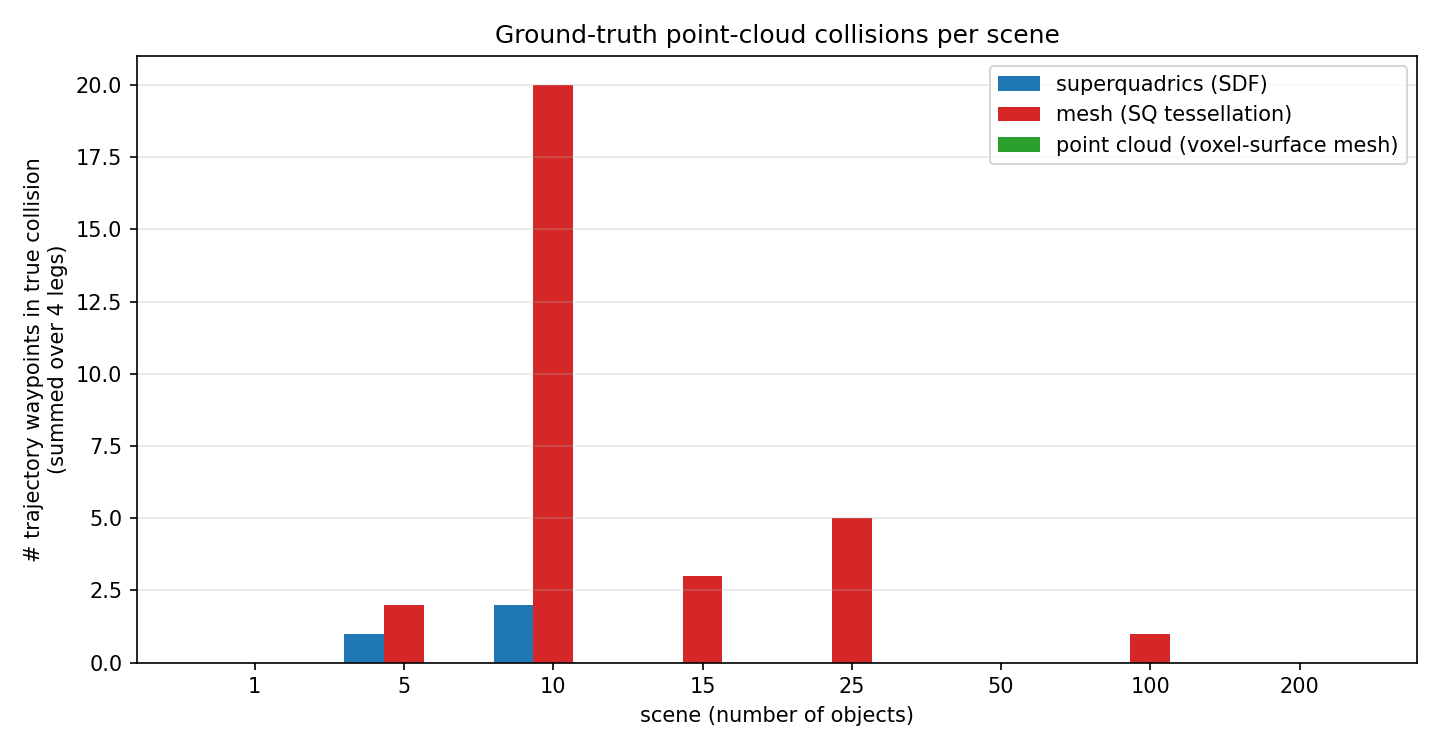
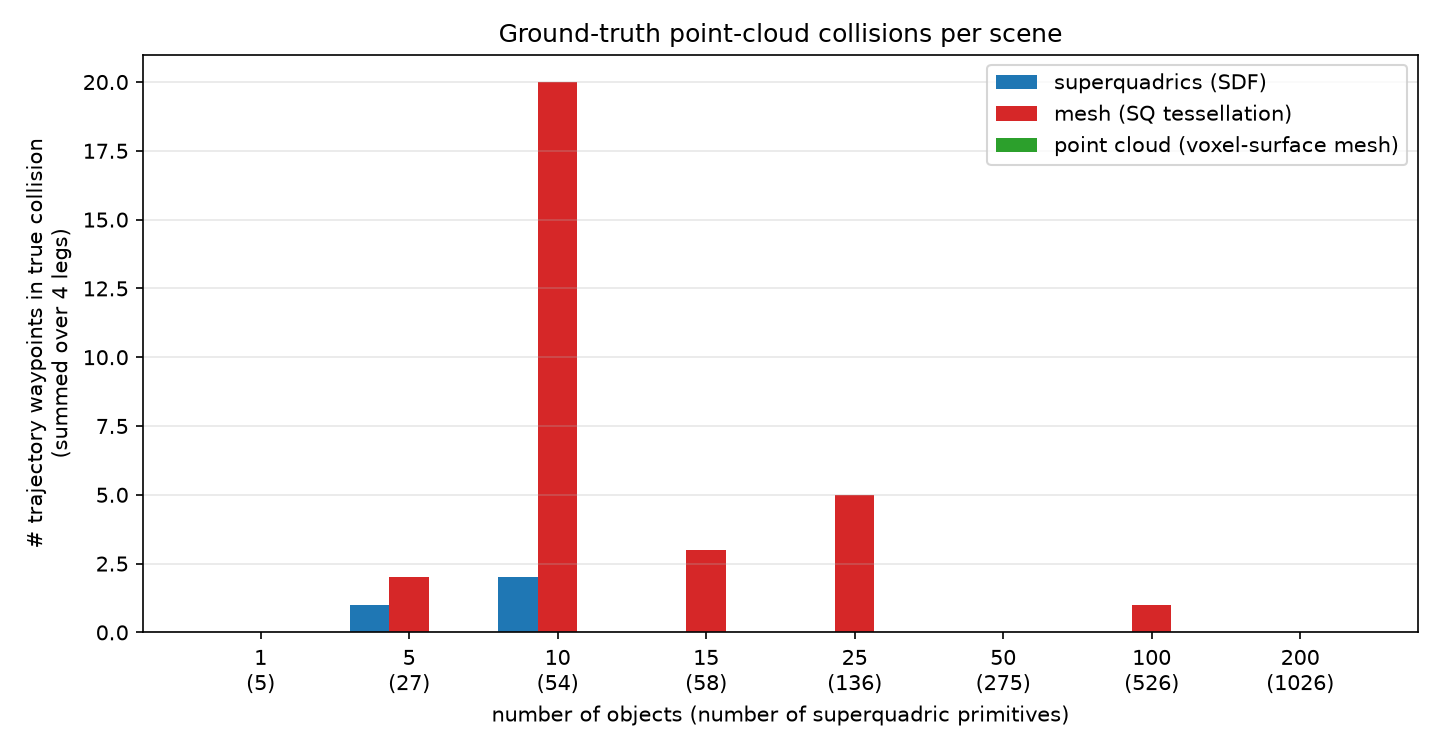
updated viz

diff --git a/curobov2/curobo/curobo/examples/paper/plot_benchmark_paper.py b/curobov2/curobo/curobo/examples/paper/plot_benchmark_paper.py
@@ -25,6 +25,7 @@ from __future__ import annotations
 
 import argparse
 from pathlib import Path
+from typing import Tuple
 
 import matplotlib
 
@@ -54,32 +55,53 @@ def _present_reps(df: pd.DataFrame) -> list:
     return [r for r in REP_ORDER if r in set(df["representation"].unique())]
 
 
-def plot_planning_time(df: pd.DataFrame, x_col: str, x_label: str, log_x: bool) -> None:
-    """One line per representation: mean planning time, std as a shaded band."""
+def _scene_axis(df: pd.DataFrame) -> Tuple[list, dict, list]:
+    """Return (sorted object counts, {n_objects: categorical index}, tick labels).
+
+    Tick labels show object count with the superquadric primitive count in brackets,
+    e.g. ``50\\n(311)``.
+    """
+    objs = sorted(df["n_objects"].unique())
+    idx = {o: i for i, o in enumerate(objs)}
+    labels = []
+    for o in objs:
+        sub = df[df["n_objects"] == o]
+        sq = sub[sub["representation"] == "superquadrics"]["n_primitives"]
+        prim = int(sq.iloc[0]) if len(sq) else int(sub["n_primitives"].max())
+        labels.append(f"{o}\n({prim})")
+    return objs, idx, labels
+
+
+def plot_planning_time(df: pd.DataFrame) -> None:
+    """One line per representation: mean planning time, std as a shaded band.
+
+    x-axis = number of objects (with #superquadric-primitives in brackets).
+    """
     ok = df[df["plan_success"] == 1]
-    fig, ax = plt.subplots(figsize=(7, 5))
+    objs, idx, labels = _scene_axis(df)
+    fig, ax = plt.subplots(figsize=(max(7, 1.1 * len(objs)), 5))
     for rep in _present_reps(df):
         sub = (
             ok[ok["representation"] == rep]
-            .groupby(x_col)["plan_wall_s"]
+            .groupby("n_objects")["plan_wall_s"]
             .agg(["mean", "std"])
             .reset_index()
-            .sort_values(x_col)
+            .sort_values("n_objects")
         )
         if sub.empty:
             continue
-        x = sub[x_col].to_numpy()
+        x = np.array([idx[o] for o in sub["n_objects"]])
         mean = sub["mean"].to_numpy()
         std = sub["std"].fillna(0.0).to_numpy()
         color = REP_STYLE[rep]["color"]
         ax.plot(x, mean, marker="o", color=color, label=REP_STYLE[rep]["label"])
         ax.fill_between(x, mean - std, mean + std, color=color, alpha=0.20)
 
-    ax.set_xlabel(x_label)
+    ax.set_xlabel("number of objects (number of superquadric primitives)")
     ax.set_ylabel("planning time per leg [s]")
     ax.set_title("Planning time (mean ± std over legs)")
-    if log_x:
-        ax.set_xscale("log")
+    ax.set_xticks(np.arange(len(objs)))
+    ax.set_xticklabels(labels)
     ax.grid(True, alpha=0.3)
     ax.legend()
     fig.tight_layout()
@@ -91,32 +113,32 @@ def plot_planning_time(df: pd.DataFrame, x_col: str, x_label: str, log_x: bool) 
 def plot_collisions_bar(df: pd.DataFrame) -> None:
     """Grouped bar chart: ground-truth collisions per scene, one bar per representation."""
     reps = _present_reps(df)
+    objs, idx, labels = _scene_axis(df)
     # total collisions per (scene, representation), summed over legs
     agg = (
         df.groupby(["n_objects", "representation"])[COLLISION_COUNT_COL]
         .sum()
         .reset_index()
     )
-    scenes = sorted(agg["n_objects"].unique())
     pivot = agg.pivot(index="n_objects", columns="representation", values=COLLISION_COUNT_COL)
-    pivot = pivot.reindex(index=scenes)
+    pivot = pivot.reindex(index=objs)
 
-    fig, ax = plt.subplots(figsize=(max(7, 1.2 * len(scenes)), 5))
+    fig, ax = plt.subplots(figsize=(max(7, 1.2 * len(objs)), 5))
     n_reps = len(reps)
     width = 0.8 / max(n_reps, 1)
-    x = np.arange(len(scenes))
+    x = np.arange(len(objs))
     for i, rep in enumerate(reps):
-        vals = pivot[rep].to_numpy() if rep in pivot.columns else np.zeros(len(scenes))
+        vals = pivot[rep].to_numpy() if rep in pivot.columns else np.zeros(len(objs))
         vals = np.nan_to_num(vals)
         offset = (i - (n_reps - 1) / 2.0) * width
         ax.bar(x + offset, vals, width=width,
                color=REP_STYLE[rep]["color"], label=REP_STYLE[rep]["label"])
 
-    ax.set_xlabel("scene (number of objects)")
+    ax.set_xlabel("number of objects (number of superquadric primitives)")
     ax.set_ylabel("# trajectory waypoints in true collision\n(summed over 4 legs)")
     ax.set_title("Ground-truth point-cloud collisions per scene")
     ax.set_xticks(x)
-    ax.set_xticklabels([str(s) for s in scenes])
+    ax.set_xticklabels(labels)
     ax.grid(True, axis="y", alpha=0.3)
     ax.legend()
     fig.tight_layout()
@@ -129,10 +151,6 @@ def main() -> None:
     parser = argparse.ArgumentParser(description=__doc__,
                                      formatter_class=argparse.RawDescriptionHelpFormatter)
     parser.add_argument("--csv", type=str, default=str(RESULTS_CSV))
-    parser.add_argument("--x", choices=["primitives", "objects"], default="primitives",
-                        help="x-axis for the planning-time plot (default: primitives)")
-    parser.add_argument("--linear-x", action="store_true",
-                        help="Use a linear x-axis (default is log) for the planning-time plot.")
     args = parser.parse_args()
 
     csv_path = Path(args.csv)
@@ -140,12 +158,7 @@ def main() -> None:
         raise SystemExit(f"No results at {csv_path}. Run the benchmark first.")
     df = pd.read_csv(csv_path)
 
-    if args.x == "objects":
-        x_col, x_label = "n_objects", "number of objects in scene"
-    else:
-        x_col, x_label = "n_primitives", "number of collision primitives in scene"
-
-    plot_planning_time(df, x_col, x_label, log_x=not args.linear_x)
+    plot_planning_time(df)
     plot_collisions_bar(df)
 
 
